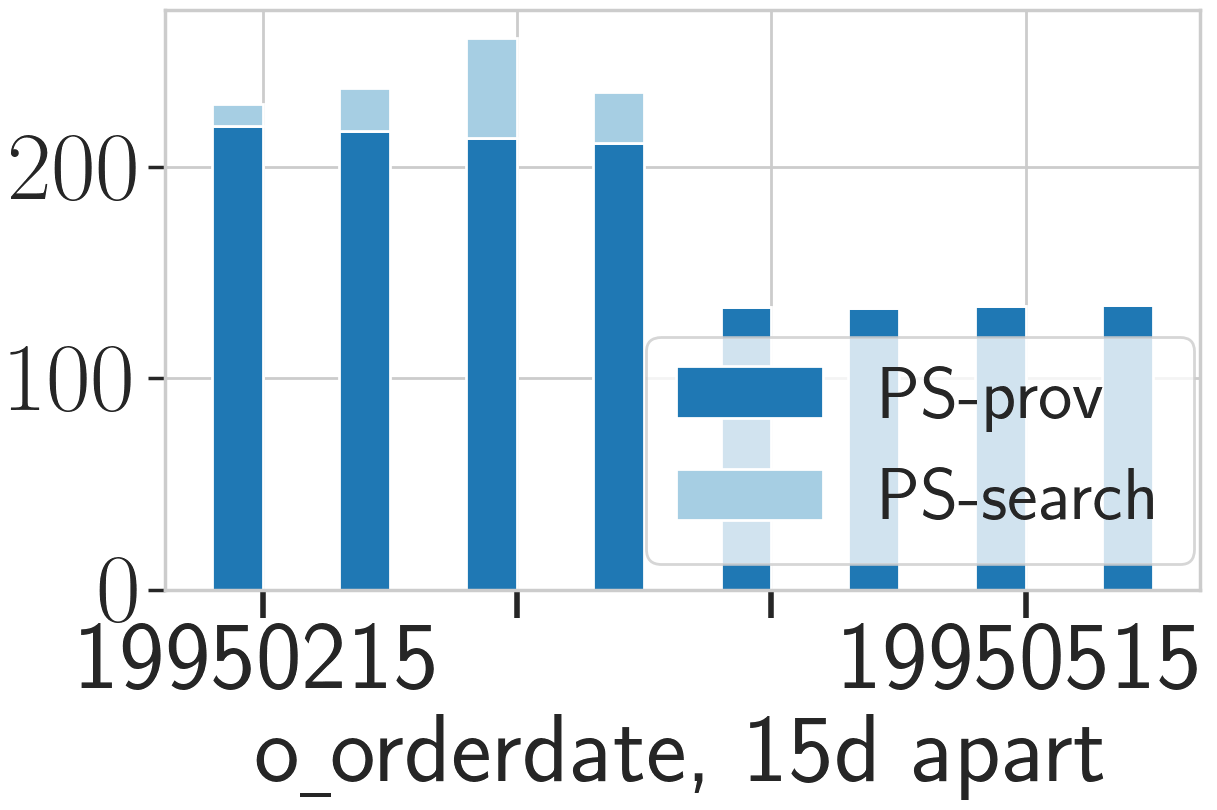
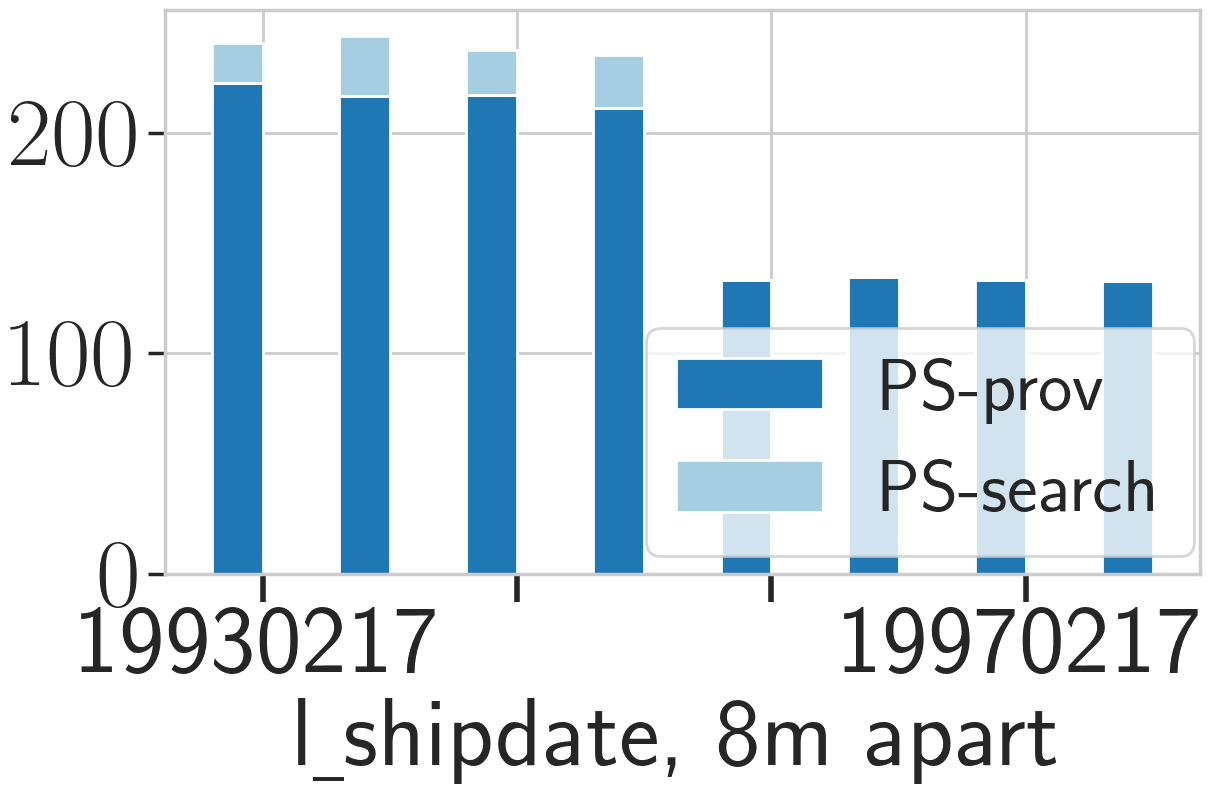
10G query selectivity q3 contract2

diff --git a/Experiment/TPCH/10G/query_selectivity/q3_contract2/fig.py b/Experiment/TPCH/10G/query_selectivity/q3_contract2/fig.py
@@ -60,7 +60,7 @@ def run(query, size, constraint):
             execution_timebl1.append(0)
             execution_timebl2.append(0)
     # x_list = [19941230, 19950115, 19950130, 19950215, 19950230, 19950315, 19950330, 19950415]
-    x_list = [19950215, '', '', 19950515]
+    x_list = [19930217, '', '', 19970217]
 
     print(x_list, execution_timeps1, execution_timeps2)
 
@@ -85,7 +85,7 @@ def run(query, size, constraint):
     plt.xticks(np.arange(0, 8, 2) + bar_width / 2, x_list, rotation=0, fontsize=70)
     plt.yticks(fontsize=70, weight='bold')
 
-    plt.xlabel(r'o\underline{ }orderdate, 15d apart')
+    plt.xlabel(r'l\underline{ }shipdate, 8m apart')
     # plt.ylabel('Running time (s)')
     plt.legend(loc='upper right', bbox_to_anchor=(1.03, 0.5), fontsize=53)
     # plt.legend(loc='best', fontsize=50)

diff --git a/Experiment/TPCH/10G/query_selectivity/q3_contract2/query_change_10G_q3_contract.py b/Experiment/TPCH/10G/query_selectivity/q3_contract2/query_change_10G_q3_contract.py
@@ -34,7 +34,7 @@ def run_constraint(c):
     result_output = open(result_output_file, "w")
     result_output.write("selection file, result\n")
 
-    for i in range(-2, 0):
+    for i in range(-3, 0):
         print("query", i)
         query_file = query_file_prefix + str(i) + ".json"
         print("========================== provenance search ===================================")
